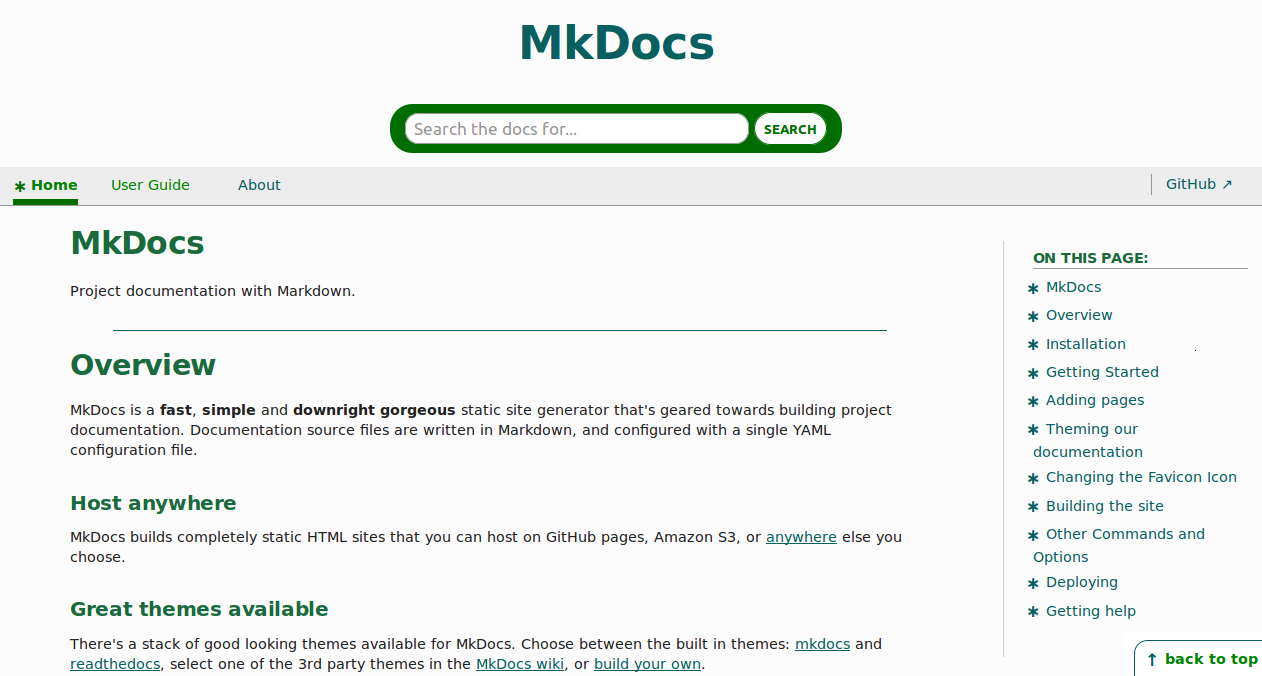
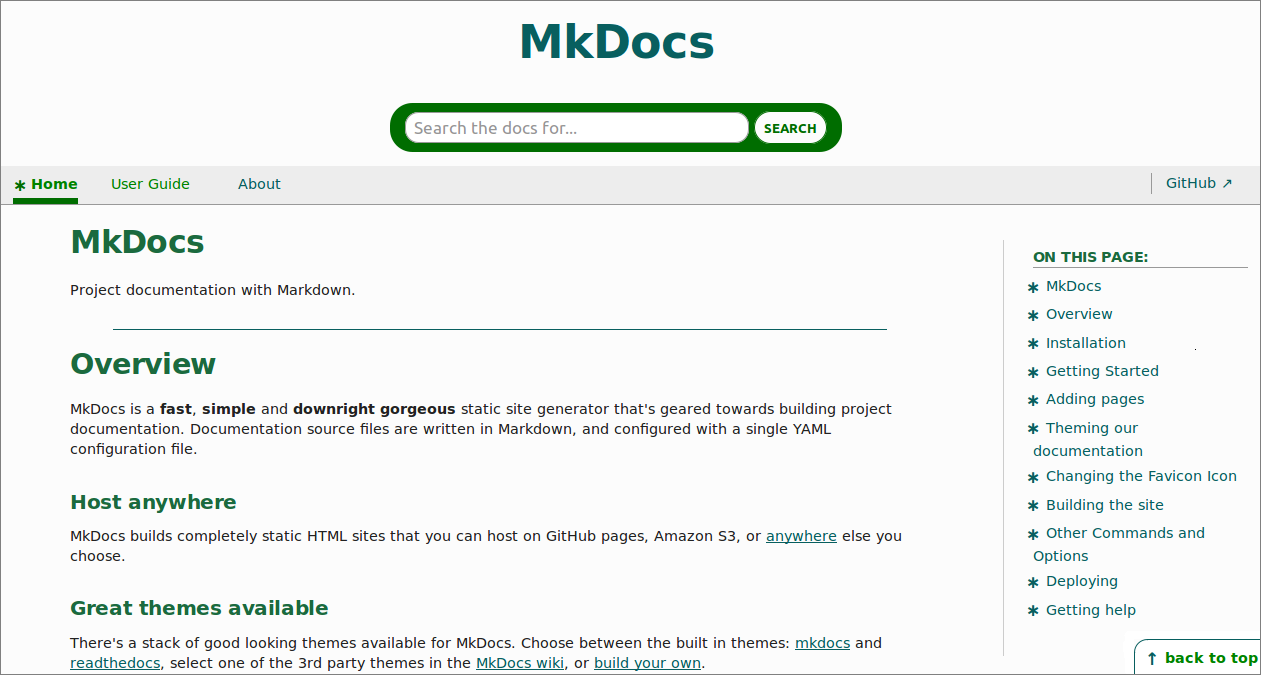
modified screenshot, README; fixed 404 error page bug

diff --git a/mkdocs_docskimmer/404.html b/mkdocs_docskimmer/404.html
@@ -11,7 +11,7 @@
 {% endblock styles %}
 
 {% block search %}
-  <form class="form form--search" id="content_search" action="search.html" role="search">
+  <form class="form form--search" id="content_search" action="{{ base_url }}/search.html" role="search">
     <div class="form-group">
       <label class="hidden" for="mkdocs-search-query">Search for:</label>
       <input type="search" aria-label="Search" class="form__input" name="q" id="mkdocs-search-query" tabindex="3"> <button type="submit" class="form__btn-submit">Search</button>

diff --git a/README.md b/README.md
@@ -2,7 +2,8 @@
 
 **docSkimmer** is a skimmable minimal theme for [MkDocs](https://github.com/mkdocs/mkdocs/).
 
-<img style="border:1px solid #999;max-width:100%;" alt="Screenshot of docSkimmer theme for MkDocs" src="/screenshots/screenshot_docskimmer-theme.png" align="center" /><br />
+<img style="max-width:100%;" alt="Screenshot of docSkimmer theme for MkDocs" src="/screenshots/screenshot_docskimmer-theme.png" align="center" /><br />
+
 *Figure 1: Screenshot of docSkimmer theme for MkDocs*
 
 ## Features
@@ -23,7 +24,7 @@ $ git clone https://github.com/hfagerlund/mkdocs-docskimmer.git
 
 ```
 
-* Copy the contents of the `mkdocs_docskimmer` directory into the MkDocs project root (ie. at same level as `docs` directory).
+* Copy the contents of the `mkdocs_docskimmer` directory into the MkDocs project root (ie. at the same level as the `docs` directory).
 
 * Add to `mkdocs.yml`:
 
